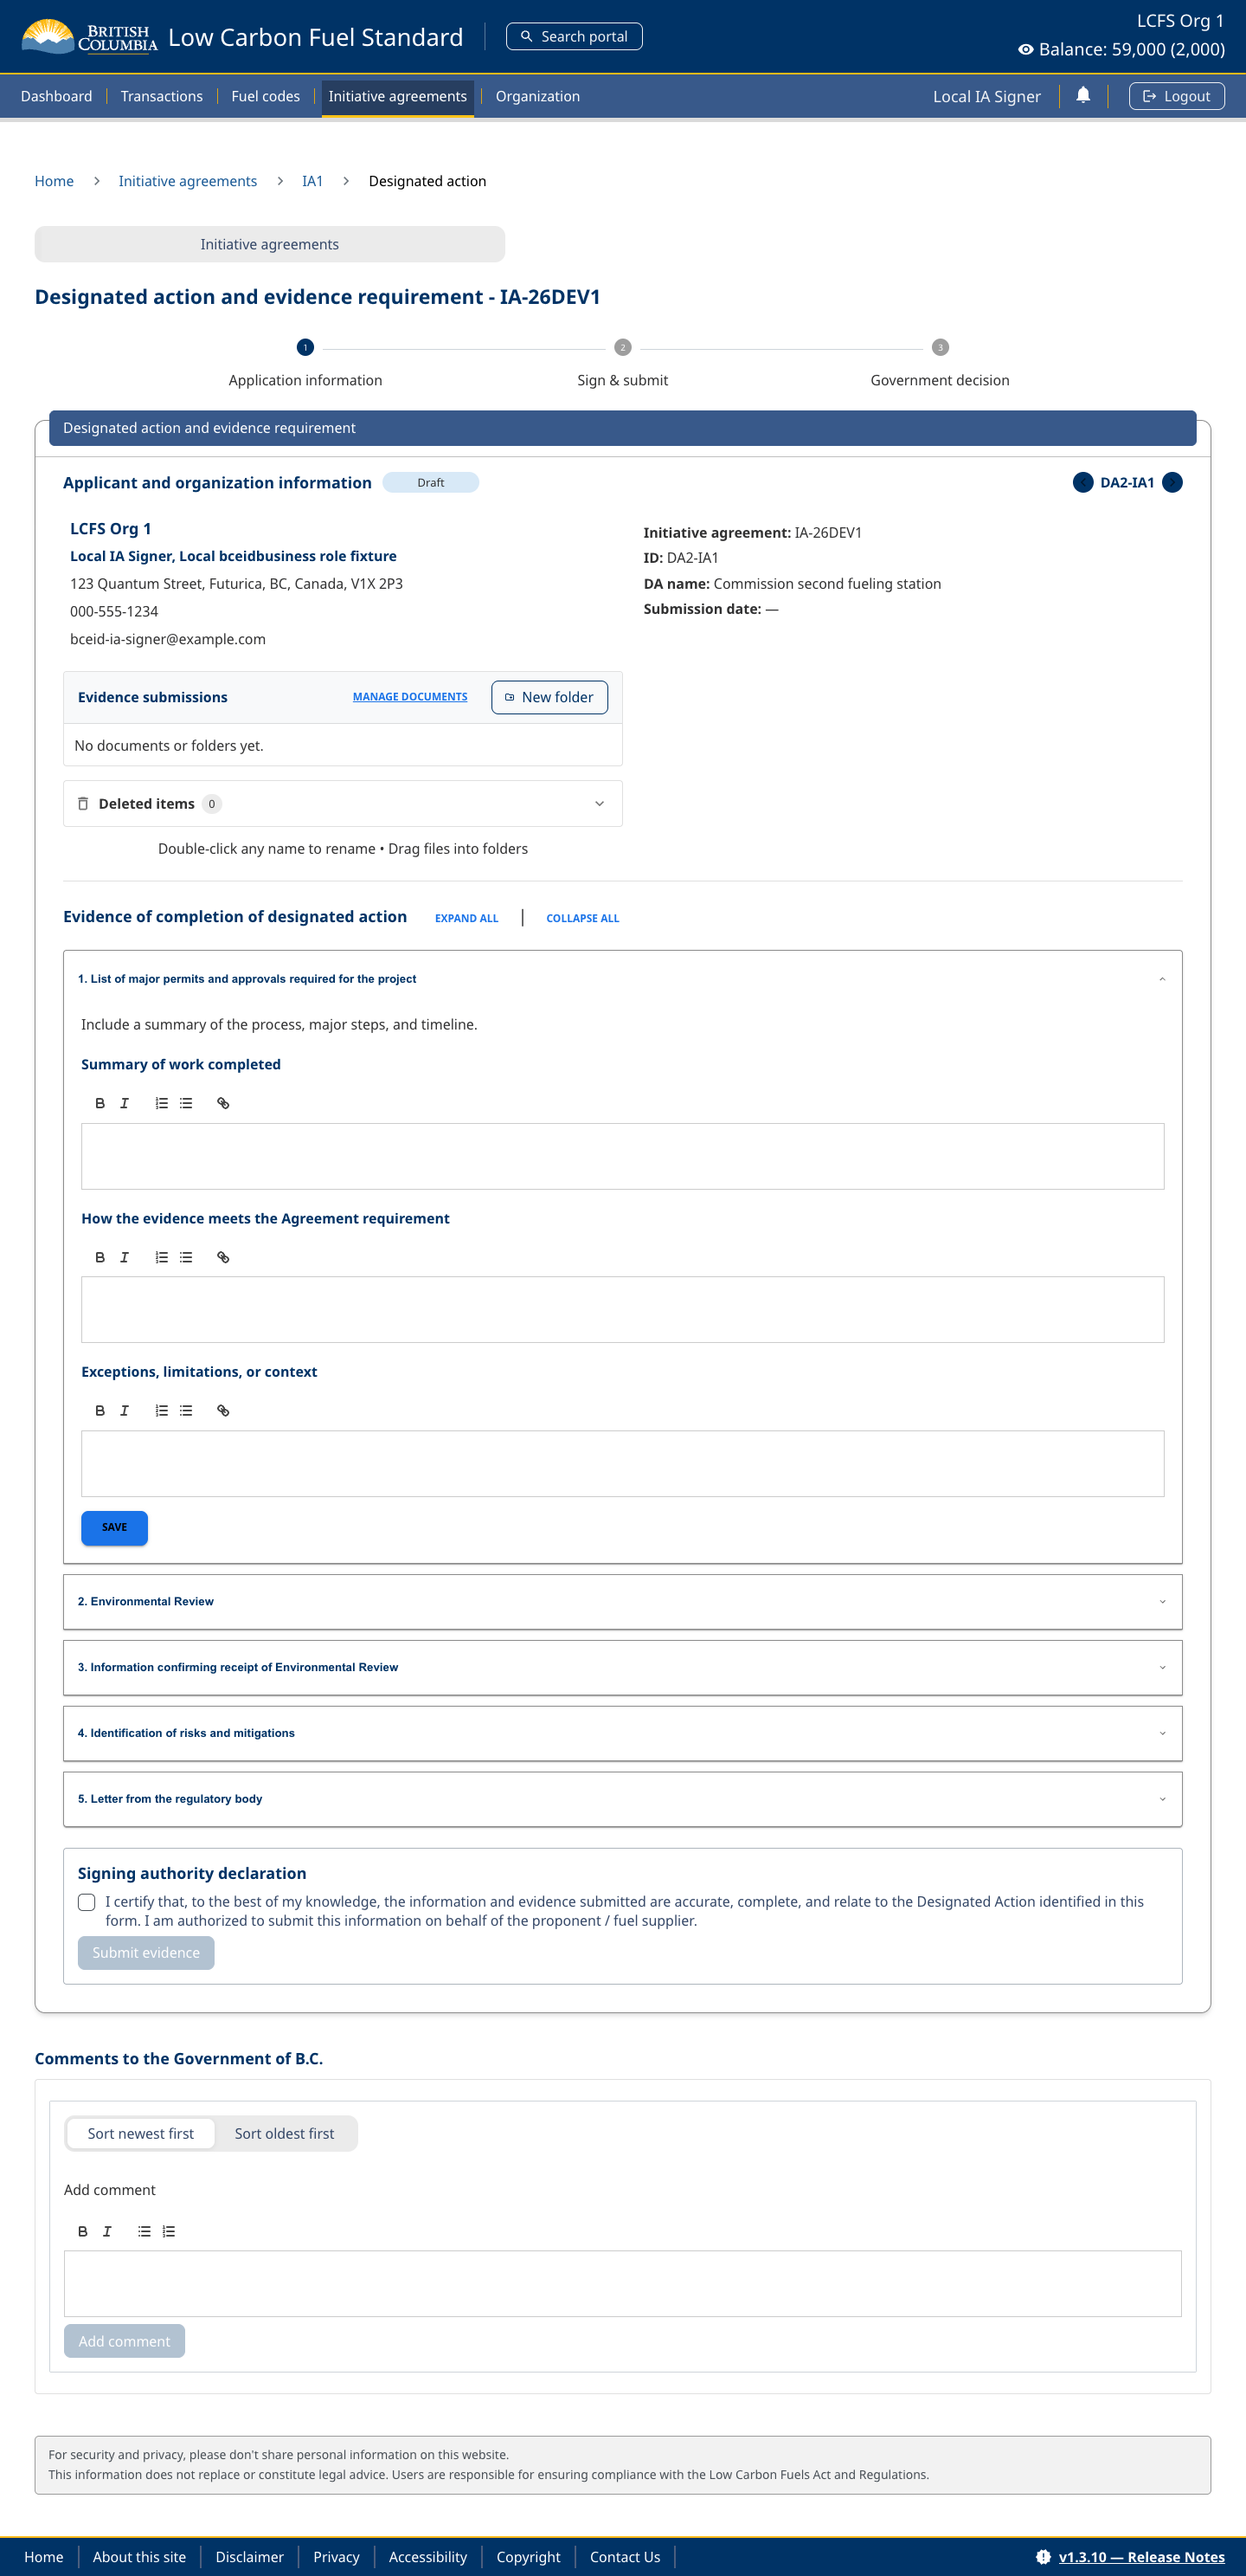
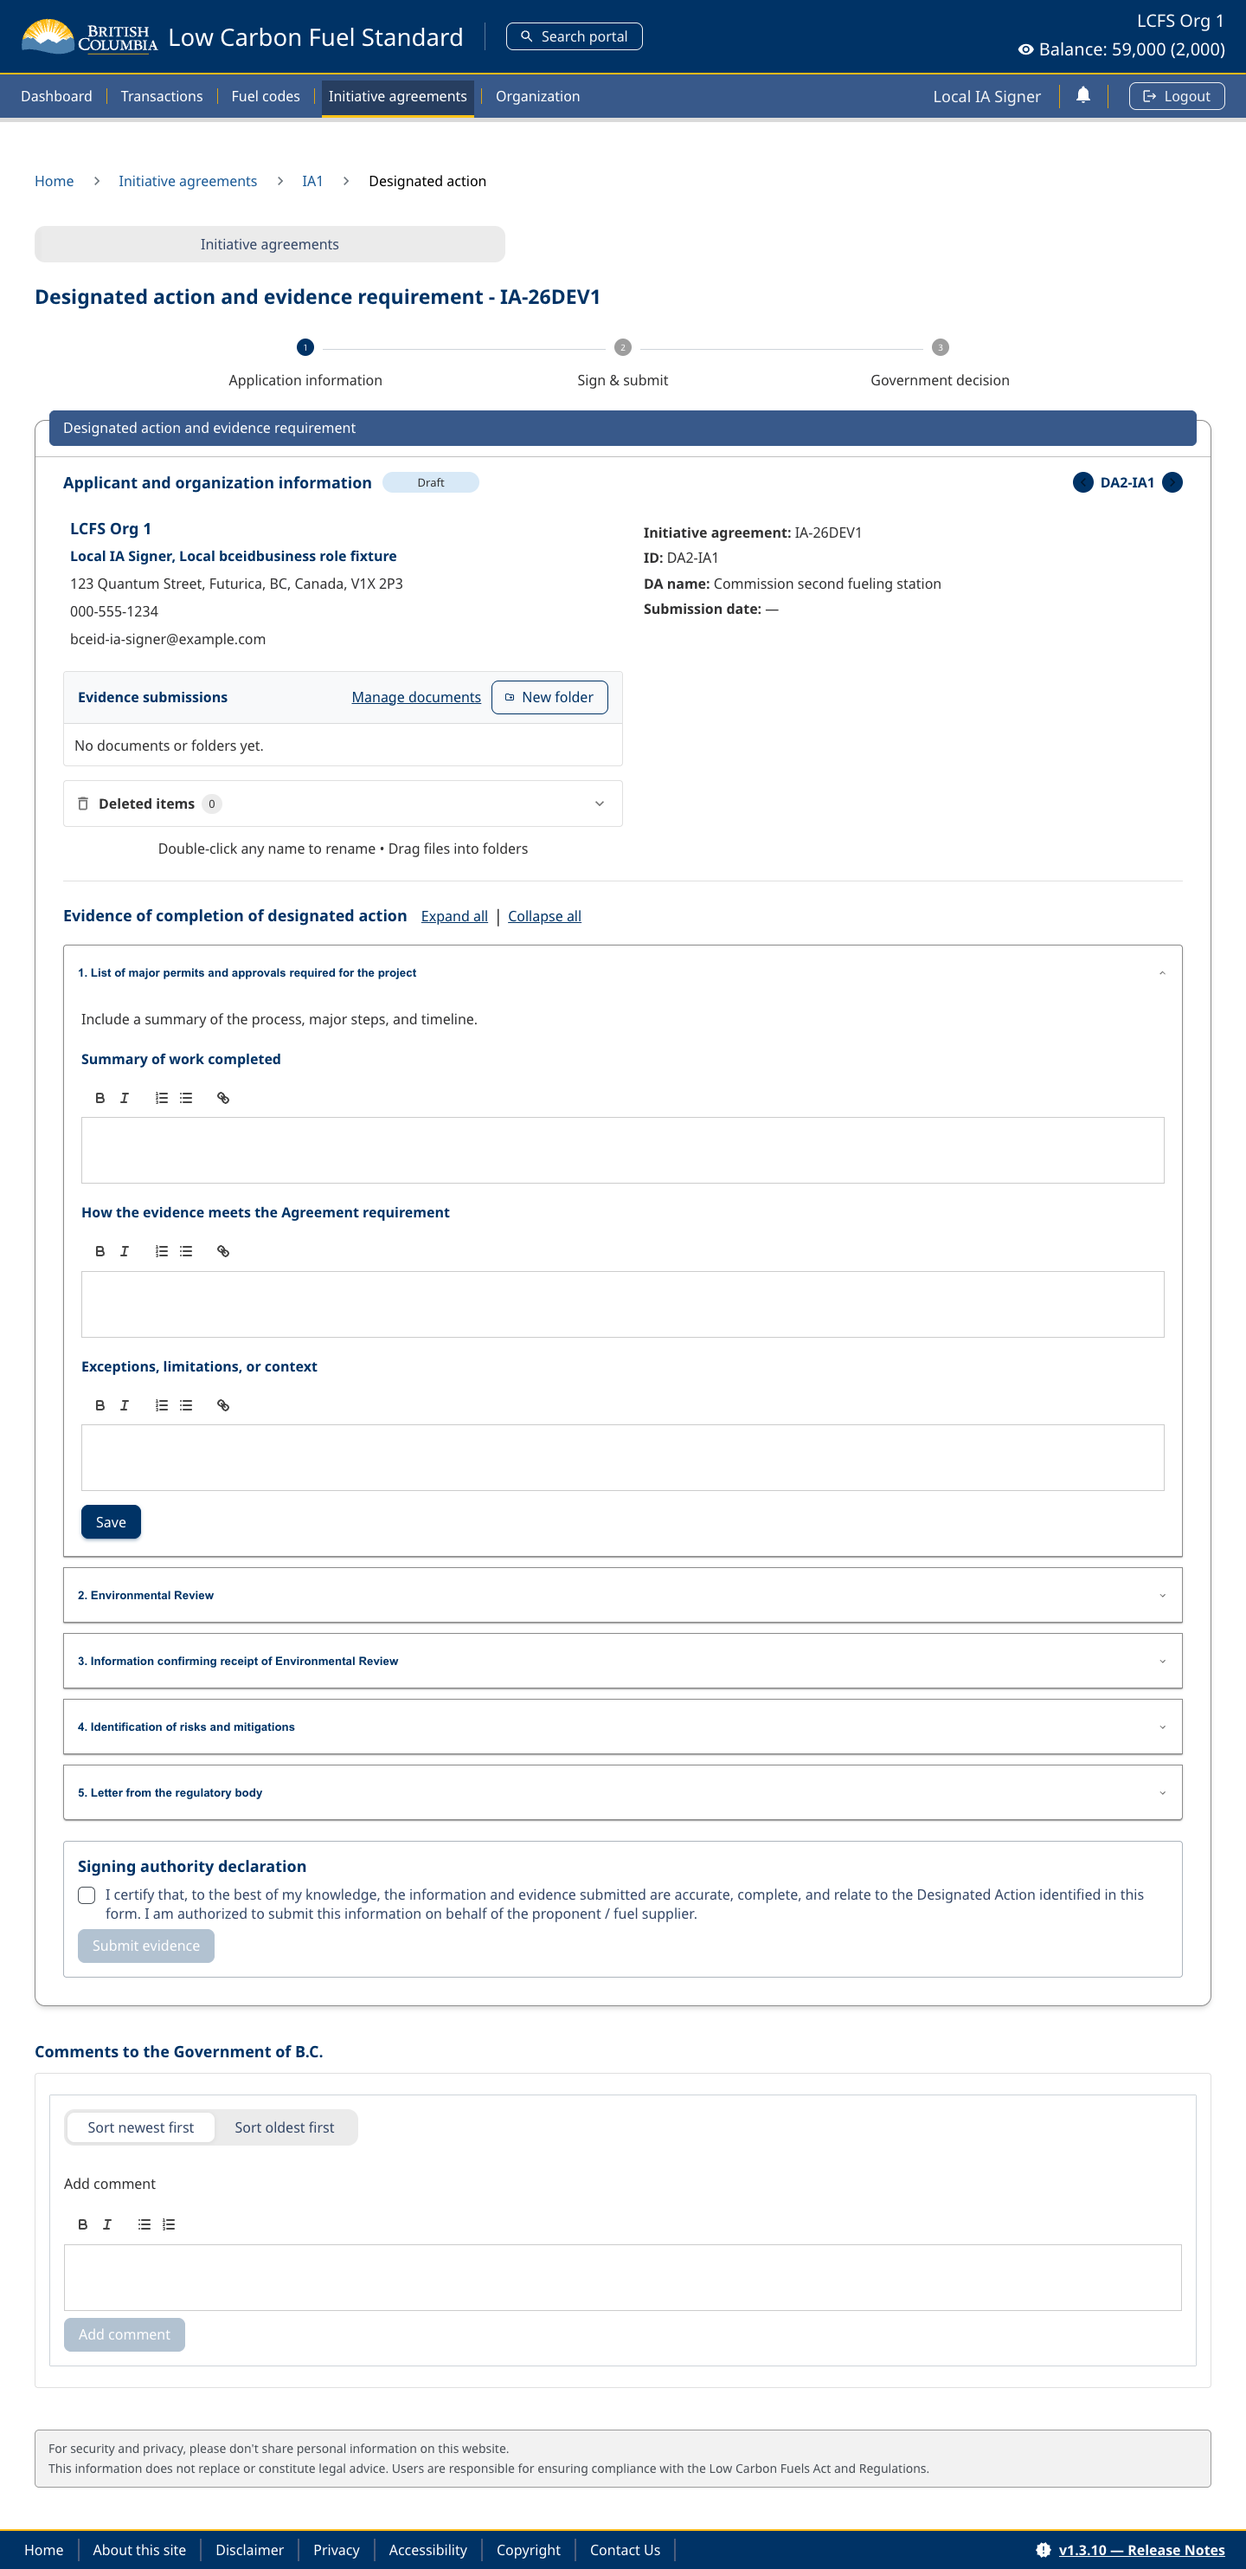
fix: match EOC actions to portal button styles

diff --git a/frontend/src/views/InitiativeAgreements/components/EOCSubmissionPage.jsx b/frontend/src/views/InitiativeAgreements/components/EOCSubmissionPage.jsx
@@ -13,6 +13,7 @@ import DialogContent from '@mui/material/DialogContent'
 import DialogTitle from '@mui/material/DialogTitle'
 import FormControlLabel from '@mui/material/FormControlLabel'
 import IconButton from '@mui/material/IconButton'
+import Link from '@mui/material/Link'
 import Paper from '@mui/material/Paper'
 import Stack from '@mui/material/Stack'
 import Step from '@mui/material/Step'
@@ -383,14 +384,19 @@ export const EOCSubmissionPage = ({
                 readOnly={locked}
                 headerAction={
                   !locked && (
-                    <Button
+                    <Link
+                      component="button"
+                      type="button"
+                      variant="body2"
                       onClick={() => onUploadOpen(true)}
-                      size="small"
-                      variant="text"
-                      sx={{ textDecoration: 'underline' }}
+                      sx={{
+                        textDecoration: 'underline',
+                        color: 'primary.main',
+                        '&:hover': { color: 'primary.dark' }
+                      }}
                     >
                       {t('initiativeAgreement:submission.manageDocuments')}
-                    </Button>
+                    </Link>
                   )
                 }
               />
@@ -416,20 +422,29 @@ export const EOCSubmissionPage = ({
                 {t('initiativeAgreement:submission.evidenceSectionTitle')}
               </BCTypography>
               <Stack direction="row" spacing={0.75}>
-                <Button
-                  size="small"
+                <Link
+                  component="button"
+                  type="button"
+                  variant="body2"
+                  sx={{ textDecoration: 'underline', color: 'primary.main' }}
                   onClick={() =>
                     setExpanded(sections.map((section) => section.id))
                   }
                 >
                   {t('initiativeAgreement:submission.expandAll')}
-                </Button>
+                </Link>
                 <BCTypography component="span" color="text.secondary">
                   |
                 </BCTypography>
-                <Button size="small" onClick={() => setExpanded([])}>
+                <Link
+                  component="button"
+                  type="button"
+                  variant="body2"
+                  sx={{ textDecoration: 'underline', color: 'primary.main' }}
+                  onClick={() => setExpanded([])}
+                >
                   {t('initiativeAgreement:submission.collapseAll')}
-                </Button>
+                </Link>
               </Stack>
             </BCBox>
 

diff --git a/frontend/src/views/InitiativeAgreements/components/EOCRequirementSection.jsx b/frontend/src/views/InitiativeAgreements/components/EOCRequirementSection.jsx
@@ -1,9 +1,9 @@
 import Accordion from '@mui/material/Accordion'
 import AccordionDetails from '@mui/material/AccordionDetails'
 import AccordionSummary from '@mui/material/AccordionSummary'
-import Button from '@mui/material/Button'
 import ExpandMoreIcon from '@mui/icons-material/ExpandMore'
 import { useTranslation } from 'react-i18next'
+import BCButton from '@/components/BCButton'
 import BCBox from '@/components/BCBox'
 import { evidencePlainText } from './evidenceRichText'
 import { EOCRequirementResponses } from './EOCRequirementResponses'
@@ -63,14 +63,16 @@ export const EOCRequirementSection = ({
         />
         {!readOnly && (
           <BCBox mt={2}>
-            <Button
+            <BCButton
               variant="contained"
+              color="primary"
+              size="small"
               disabled={saving}
               onClick={onSave}
               data-test={`eoc-response-save-${requirement.id}`}
             >
               {t('initiativeAgreement:submission.save')}
-            </Button>
+            </BCButton>
           </BCBox>
         )}
       </AccordionDetails>
